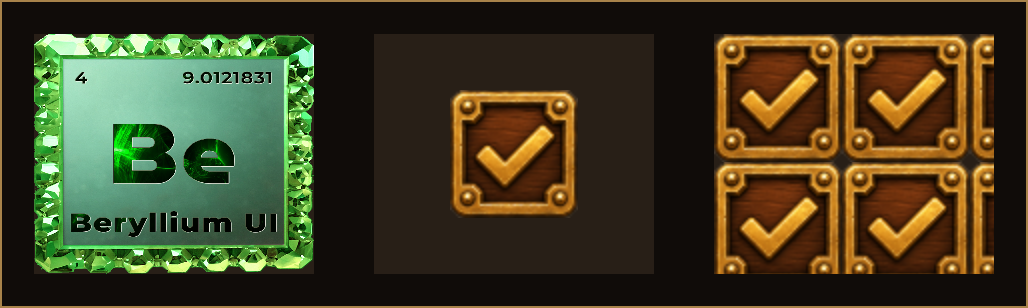
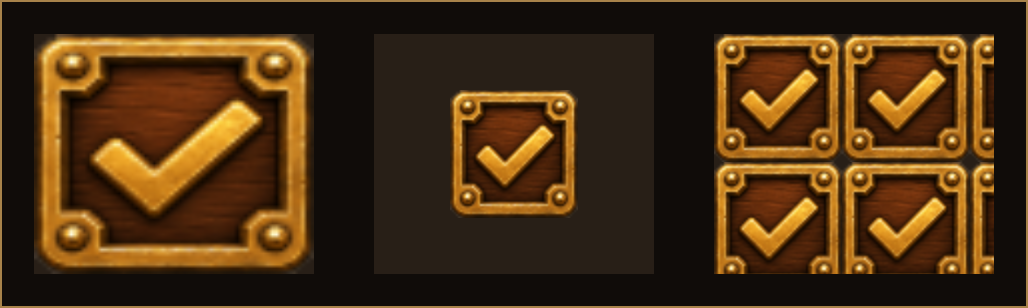
Rich font and size tags, one texture in the fill example
The text page describes [f=n], [z=n], the RichFonts list and lines of
their own height, with an example of a title in another font and size
beside a small note on its baseline; the glossary follows. The image
fill example stretches the check box texture too.

Changed region(s): [[0.0311, 0.0877, 0.3113, 0.9058]]

diff --git a/docs/ui-text.md b/docs/ui-text.md
@@ -230,24 +230,57 @@ var journal = new RichTextBox("quests")
 ui.AddElementToRoot(journal);
 ```
 
+<figure class="shot">
+  <img src="{{ '/assets/img/ui/text-rich-fonts.png' | relative_url }}" width="442" height="98" alt="A large gold serif title, The Ember Caves, with a small chapter one beside it on the same baseline, above a line of text in the box's font">
+  <figcaption>A title in another font and size, a small note on its baseline, and the box's own font below.</figcaption>
+</figure>
+
+```csharp
+// [f=n] draws in the font file RichFonts[n], [z=n] n units high; a line is
+// as high as its biggest letters need, all of them on one baseline
+RichTextBox.RichFonts.Add("Fonts/Georgia.ttf");
+RichTextBox.RichColors.Add(new Color(233, 194, 122));
+
+var page = new RichTextBox("page")
+{
+    Text = "[f=0,z=30,c=0]The Ember Caves[/] [z=12]chapter one[/]\n" +
+           "The torch burns low. Find a way out before the last ember dies.",
+    Formatting = RichTextBoxFormatting.Rich,
+    WrapType = TextWrap.Wrap,
+    DesiredWidth = 440,
+    HorizontalAlignment = HorizontalAlignment.Left,
+    VerticalAlignment = VerticalAlignment.Top,
+    Margin = (16, 16),
+    BackgroundColor = Color.Transparent
+};
+
+ui.AddElementToRoot(page);
+```
+
 With <code>Formatting = <a href="/docs/ui-glossary/types/rich-text-box-formatting/#rich">RichTextBoxFormatting.Rich</a></code> a read-only box reads tags out of its text. A tag in square brackets
-holds one or more instructions separated by commas, each a letter and a number: an index into one of three static lists shared by every box, or 1 and 0 to
-turn a line on and off:
+holds one or more instructions separated by commas, each a letter and a number: an index into one of the static lists shared by every box, a size, or 1 and 0
+to turn a line on and off:
 
 | Tag | Effect |
 | --- | --- |
 | `[c=n]` | The following text is drawn in <code><a href="/docs/ui-glossary/elements/rich-text-box/#richcolors">RichTextBox.RichColors</a>[n]</code>. |
 | `[a=n]` | The following text is a link: pressing it runs <code><a href="/docs/ui-glossary/elements/rich-text-box/#richactions">RichTextBox.RichActions</a>[n]</code>. |
-| `[i=n]` | The word is replaced by <code><a href="/docs/ui-glossary/elements/rich-text-box/#richimages">RichTextBox.RichImages</a>[n]</code>, drawn as a square one line high. A `c` instruction tints it. |
+| `[i=n]` | The word is replaced by <code><a href="/docs/ui-glossary/elements/rich-text-box/#richimages">RichTextBox.RichImages</a>[n]</code>, drawn as a square as high as a line of its font. A `c` instruction tints it. |
 | `[o=n]` | The letters of the following text get an outline in <code>RichTextBox.RichColors[n]</code>, <a class="ref dp" href="/docs/ui-glossary/elements/rich-text-box/#richoutlinethickness">`RichOutlineThickness`</a> units wide around them. |
 | `[u=1]` | The following text is underlined in its own colour, through the spaces between its words. `[u=0]` ends the underline. |
 | `[s=1]` | The following text is struck through in its own colour, like an underline. `[s=0]` ends it. |
+| `[f=n]` | The following text is drawn in the font file <code>RichTextBox.RichFonts[n]</code>, at the box's size unless a `z` instruction gives one. |
+| `[z=n]` | The following text is drawn `n` units high, in the box's font unless an `f` instruction gives another. `[z=0]` is the box's size again. |
 | `[/]` | Ends all formatting. |
 | `[.../]` | A self-closing tag, such as `[i=0/]` or `[c=1,i=0/]`: its instructions apply to that place only (an image, for `i`), and the formatting around it goes on. |
 
 Instructions combine, as in `[c=0,a=1]help[/]`. The formatting goes on over the following words until `[/]`, so
 `[c=0]two words[/]` colours both. An image tag goes on too, so close it at once: write it self-closing, as in `[i=0/]`, or follow it with `[/]`. An index past the end of its list is ignored. To show a bracket itself, escape it with
 a backslash: `\[` and `\]` (`"\\["` in a C# string).
+
+A line with other fonts or sizes is as high as its tallest letters need, and all its words stand on one baseline;
+it is never lower than a line of the box's own font. The space between two words is the box font's. A font file
+is loaded once and shared, like <a class="ref dp" href="/docs/ui-glossary/elements/rich-text-box/#fontpath">`FontPath`</a>: each file has a glyph atlas of its own.
 
 A link is drawn like the text around it, so give it a colour as well if it should stand out. Over a link the mouse shows
 the link cursor of the box's <a class="ref prop" href="/docs/ui-glossary/types/mouse-cursors-set/#richtextcursors">`MouseCursorsSet.RichTextCursors`</a> (see [styles](/docs/ui-styles/)), and a press on it runs
@@ -409,6 +442,7 @@ With <a class="ref dp" href="/docs/ui-glossary/elements/rich-text-box/#character
 | <a class="ref prop" href="/docs/ui-glossary/elements/rich-text-box/#richcolors-1">`RichColors`</a> | `List<Color>` | Static field. The colours `[c=n]` tags index, shared by every box. |
 | <a class="ref prop" href="/docs/ui-glossary/elements/rich-text-box/#richactions-1">`RichActions`</a> | `List<Action>` | Static field. The actions `[a=n]` links run, shared by every box. |
 | <a class="ref prop" href="/docs/ui-glossary/elements/rich-text-box/#richimages-1">`RichImages`</a> | `List<Texture2D>` | Static field. The textures `[i=n]` tags show, shared by every box. |
+| `RichFonts` | `List<string>` | Static field. The font files `[f=n]` tags draw in, shared by every box (each loaded once). |
 | <a class="ref prop" href="/docs/ui-glossary/elements/rich-text-box/#lastfonterror">`LastFontError`</a> | `Exception` | Read-only. The exception of the last failed font preparation (font system or font size not usable), `null` when the font is fine. The box shows no text and gives up the keyboard while it has no font. |
 | <a class="ref prop" href="/docs/ui-glossary/elements/rich-text-box/#fontsystemoverride">`FontSystemOverride`</a> | <a class="ref prop" href="/docs/ui-glossary/elements/rich-text-box/#fontsystem">`FontSystem`</a> | A FontStashSharp font system for this box only, used instead of the general one. Setting <a class="ref dp" href="/docs/ui-glossary/elements/rich-text-box/#fontpath">`FontPath`</a> sets it too. The box does not dispose it. |
 | <a class="ref prop" href="/docs/ui-glossary/elements/rich-text-box/#fontsystem">`FontSystem`</a> | <a class="ref prop" href="/docs/ui-glossary/elements/rich-text-box/#fontsystem">`FontSystem`</a> | Read-only. The font system in use: <a class="ref prop" href="/docs/ui-glossary/elements/rich-text-box/#fontsystemoverride">`FontSystemOverride`</a>, or <a class="ref prop" href="/docs/ui-glossary/elements/rich-text-box/#generalfontsystem">`GeneralFontSystem`</a> without one. |
@@ -456,7 +490,7 @@ Positions count the characters of <a class="ref dp" href="/docs/ui-glossary/elem
 | Value | Meaning |
 | --- | --- |
 | <a class="ref" href="/docs/ui-glossary/types/rich-text-box-formatting/#plain">`Plain`</a> | The text is shown as it is. |
-| <a class="ref" href="/docs/ui-glossary/types/rich-text-box-formatting/#rich">`Rich`</a> | A read-only box reads `[c=n]`, `[a=n]`, `[i=n]`, `[o=n]`, `[u=1]`, `[s=1]` and `[/]` tags, and self-closing ones such as `[i=0/]`. |
+| <a class="ref" href="/docs/ui-glossary/types/rich-text-box-formatting/#rich">`Rich`</a> | A read-only box reads `[c=n]`, `[a=n]`, `[i=n]`, `[o=n]`, `[u=1]`, `[s=1]`, `[f=n]`, `[z=n]` and `[/]` tags, and self-closing ones such as `[i=0/]`. |
 
 Style class: <a class="ref" href="/docs/ui-glossary/types/rich-text-box-style/">`RichTextBoxStyle`</a> (the same properties, see [styles](/docs/ui-styles/)). Its defaults are an empty
 <span class="dp">`Text`</span>, <span class="dp">`FontSize`</span> 14, <a class="ref dp" href="/docs/ui-glossary/elements/base-element/#foregroundcolor">`ForegroundColor`</a> <a class="ref" href="/docs/ui-glossary/types/default-settings/#defaulttextcolor">`DefaultSettings.DefaultTextColor`</a> (black), the caret and selection settings

diff --git a/docs/ui-images.md b/docs/ui-images.md
@@ -15,12 +15,11 @@ Screenshots use the theme from [styles](/docs/ui-styles/#the-theme-of-these-page
 Draws a texture, stretched over the image, centred at its own size or repeated as tiles.
 
 <figure class="shot">
-  <img src="{{ '/assets/img/ui/images-fills.png' | relative_url }}" width="514" height="154" alt="Three framed images: the Beryllium UI logo stretched over the first, a check box texture centred in the second, and the same texture tiled in rows and columns in the third, cut at the right and bottom edges">
+  <img src="{{ '/assets/img/ui/images-fills.png' | relative_url }}" width="514" height="154" alt="Three framed images of one check box texture: stretched over the first, centred in the second and tiled over the third, cut at its right and bottom edges">
   <figcaption>The same frame size with <code>Stretch</code>, <code>Center</code> and <code>Tile</code>.</figcaption>
 </figure>
 
 ```csharp
-var logo = LoadTexture("Logo/BerylliumUI Logo.png");      // 1280 x 1280
 var mark = LoadTexture("CheckBox/Checked.png");           // 64 x 64
 
 Image Framed(Texture2D texture, ImageFill fill, int left) => new()
@@ -34,7 +33,7 @@ Image Framed(Texture2D texture, ImageFill fill, int left) => new()
 };
 
 // the whole texture over the image
-ui.AddElementToRoot(Framed(logo, ImageFill.Stretch, 16));
+ui.AddElementToRoot(Framed(mark, ImageFill.Stretch, 16));
 
 // its own size, in the middle
 ui.AddElementToRoot(Framed(mark, ImageFill.Center, 186));

diff --git a/docs/ui-glossary/elements/rich-text-box.md b/docs/ui-glossary/elements/rich-text-box.md
@@ -151,6 +151,10 @@ Names are coloured by what they are: a <span class="kb kb-prop">plain property</
 
 `List<Color>` · Static field. The colours `[c=n]` tags index, shared by every box.
 
+<h3 id="richfonts"><code>RichFonts</code> <a class="ctx" href="/docs/ui-text/#richtextbox-properties" title="RichFonts in context on the text page" aria-label="RichFonts in context on the text page">🠆</a></h3>
+
+`List<string>` · Static field. The font files `[f=n]` tags draw in, shared by every box (each loaded once).
+
 <h3 id="richimages"><code>RichImages</code> <a class="ctx" href="/docs/ui-text/#richtextbox-properties" title="RichImages in context on the text page" aria-label="RichImages in context on the text page">🠆</a></h3>
 
 `List<Texture2D>` · Static field. The textures `[i=n]` tags show, shared by every box.

diff --git a/docs/ui-glossary/types/rich-text-box-formatting.md b/docs/ui-glossary/types/rich-text-box-formatting.md
@@ -14,4 +14,4 @@ The text is shown as it is.
 
 <h3 id="rich"><code>Rich</code> <a class="ctx" href="/docs/ui-text/#richtextboxformatting" title="Rich in context on the text page" aria-label="Rich in context on the text page">🠆</a></h3>
 
-A read-only box reads `[c=n]`, `[a=n]`, `[i=n]`, `[o=n]`, `[u=1]`, `[s=1]` and `[/]` tags, and self-closing ones such as `[i=0/]`.
+A read-only box reads `[c=n]`, `[a=n]`, `[i=n]`, `[o=n]`, `[u=1]`, `[s=1]`, `[f=n]`, `[z=n]` and `[/]` tags, and self-closing ones such as `[i=0/]`.
